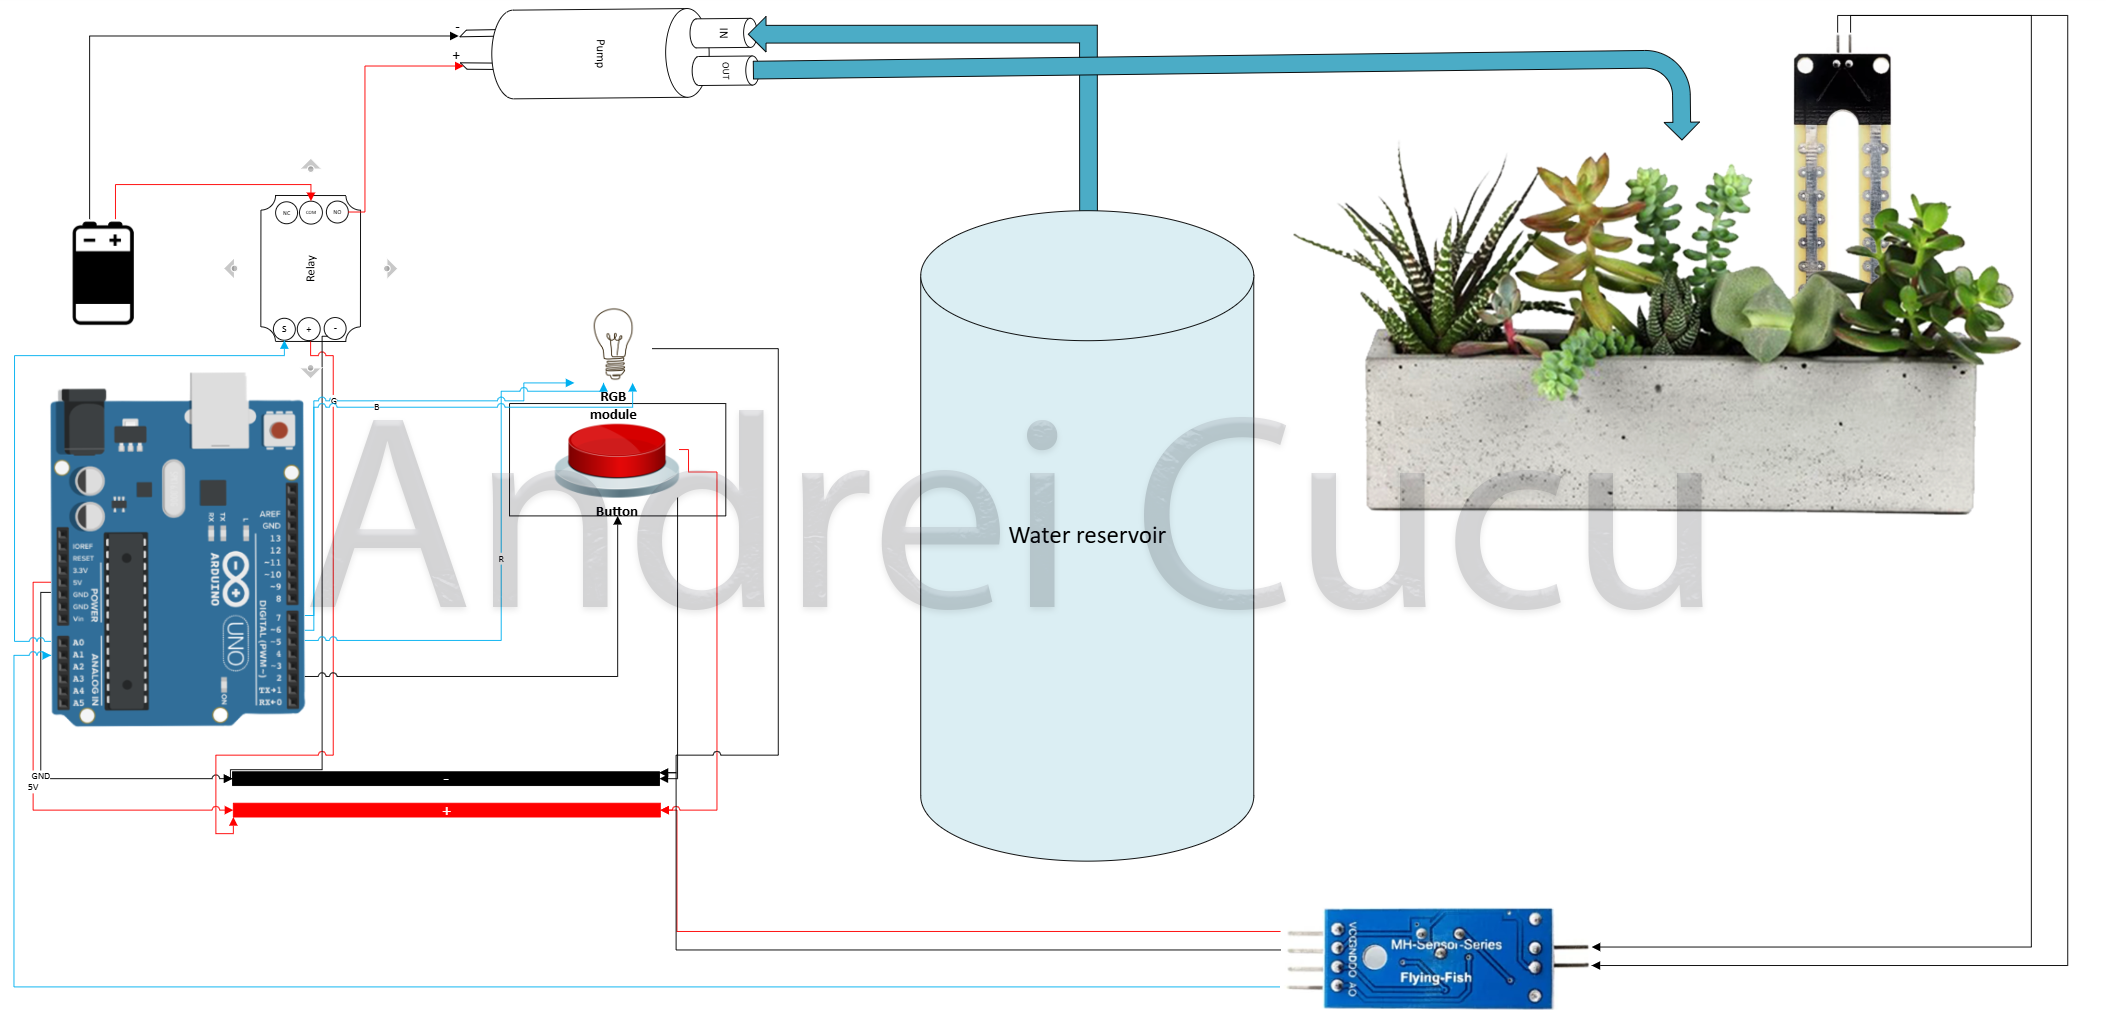
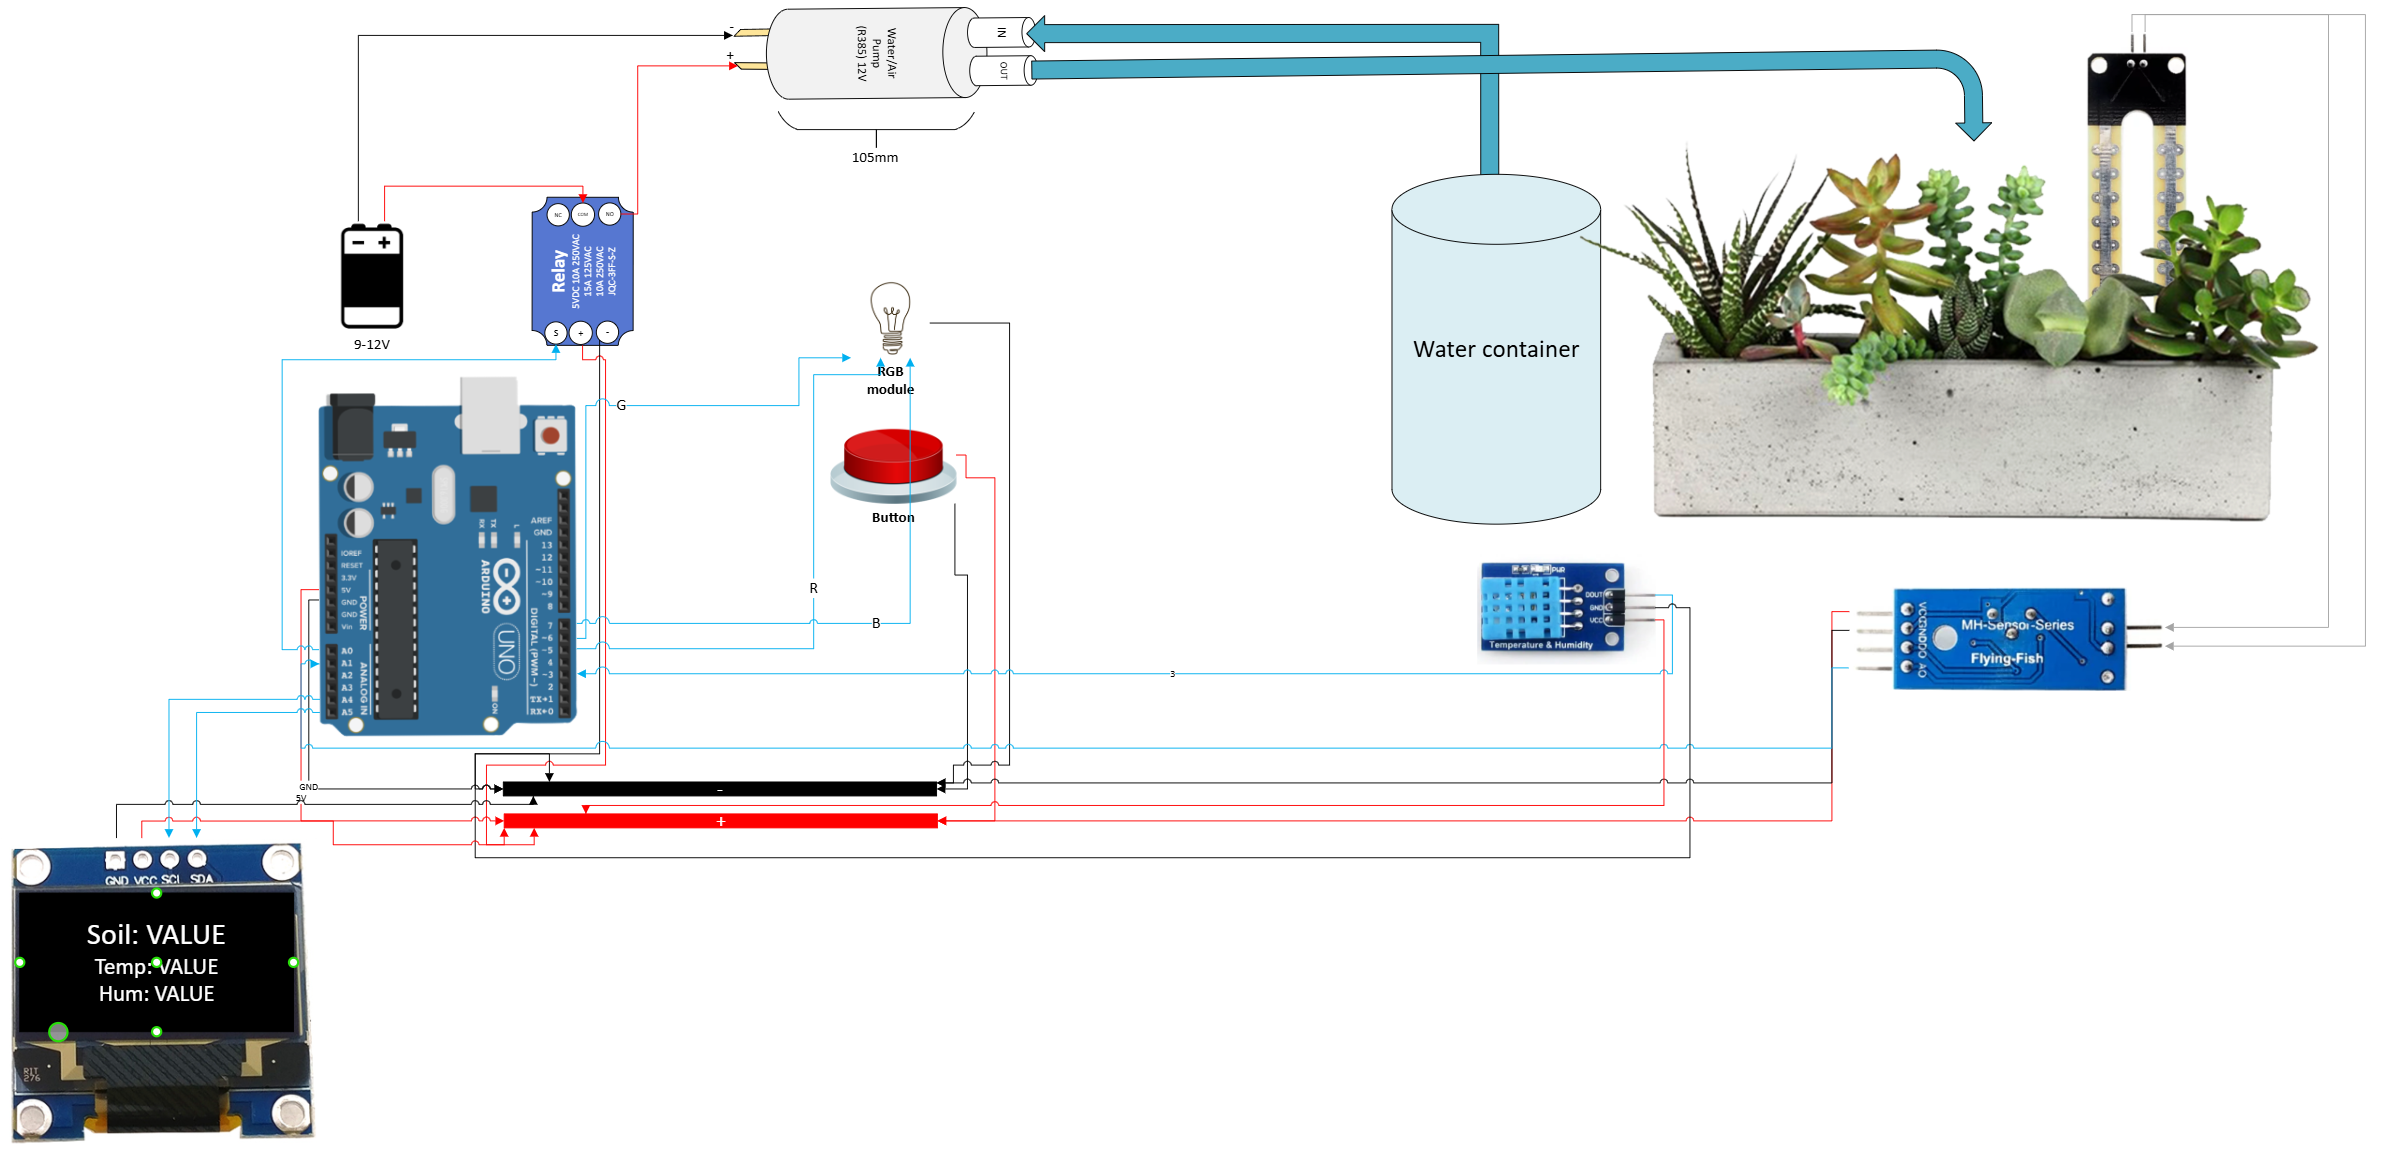
Flask page to view data

diff --git a/gardening_automation/templates/index.html b/gardening_automation/templates/index.html
@@ -1,0 +1,94 @@
+<!DOCTYPE html>
+<html lang="en">
+<head>
+    <meta charset="UTF-8">
+    <meta name="viewport" content="width=device-width, initial-scale=1.0">
+    <title>Garden Station Dashboard</title>
+    <link rel="stylesheet" href="https://cdn.jsdelivr.net/npm/bootstrap@5.3.0/dist/css/bootstrap.min.css">
+    <script src="https://code.jquery.com/jquery-3.6.0.min.js"></script>
+    <style>
+        body {
+            background-color: #f8f9fa;
+        }
+        .sensor-card {
+            text-align: center;
+            padding: 20px;
+            margin: 10px;
+            border-radius: 10px;
+            box-shadow: 0px 0px 10px rgba(0, 0, 0, 0.1);
+        }
+        img {
+            max-width: 100%;
+            height: auto;
+            border: 2px solid #ddd;
+            border-radius: 10px;
+            padding: 10px;
+            background: white;
+            margin-top: 20px;
+        }
+    </style>
+</head>
+<body>
+    <div class="container text-center mt-5">
+        <h1>🌱 Garden Station Dashboard</h1>
+        <div class="row mt-4">
+            <div class="col-md-4">
+                <div class="sensor-card bg-primary text-white">
+                    <h3>Soil Moisture</h3>
+                    <h2 id="moisture">Loading...</h2>
+                    <p id="moisture-status"></p>
+                </div>
+            </div>
+            <div class="col-md-4">
+                <div class="sensor-card bg-danger text-white">
+                    <h3>Temperature</h3>
+                    <h2 id="temperature">Loading...</h2>
+                </div>
+            </div>
+            <div class="col-md-4">
+                <div class="sensor-card bg-success text-white">
+                    <h3>Humidity</h3>
+                    <h2 id="humidity">Loading...</h2>
+                </div>
+            </div>
+        </div>
+
+        <h2 class="mt-4">📊 Soil Moisture Data Over Time</h2>
+        <img id="soil_moisture_graph" src="{{ url_for('static', filename='soil_moisture_graph.png') }}" alt="Soil Moisture Graph" class="img-fluid">
+
+        <h2 class="mt-4">📊 Temperature & Humidity Data Over Time</h2>
+        <img id="temp_humidity_graph" src="{{ url_for('static', filename='temp_humidity_graph.png') }}" alt="Temperature & Humidity Graph" class="img-fluid">
+    </div>
+
+    <script>
+        function fetchData() {
+            $.getJSON("/data", function(data) {
+                $("#moisture").text(data.soil_moisture);
+                $("#temperature").text(data.temperature + " °C");
+                $("#humidity").text(data.humidity + " %");
+
+                let moistureStatus = "";
+                if (data.soil_moisture < 300) {
+                    moistureStatus = "⚠ Too much water!";
+                } else if (data.soil_moisture >= 300 && data.soil_moisture <= 550) {
+                    moistureStatus = "✅ Good";
+                } else {
+                    moistureStatus = "⚠ Dry, needs water!";
+                }
+
+                $("#moisture-status").text(moistureStatus);
+            });
+        }
+
+        function refreshGraphs() {
+            $("#soil_moisture_graph").attr("src", "{{ url_for('static', filename='soil_moisture_graph.png') }}?" + new Date().getTime());
+            $("#temp_humidity_graph").attr("src", "{{ url_for('static', filename='temp_humidity_graph.png') }}?" + new Date().getTime());
+        }
+
+        setInterval(fetchData, 5000);
+        setInterval(refreshGraphs, 15000);
+        fetchData();
+    </script>
+
+</body>
+</html>

diff --git a/gardening_automation/app.py b/gardening_automation/app.py
@@ -1,0 +1,194 @@
+from flask import Flask, jsonify, render_template, url_for
+import pandas as pd
+import serial
+import time
+import threading
+import matplotlib.pyplot as plt
+import os
+from datetime import datetime
+
+app = Flask(__name__, template_folder="templates")
+
+# File paths
+CSV_FILE = "/home/andrei/shared/GardenStation_log.csv"
+STATIC_FOLDER = "static"
+SOIL_GRAPH_PATH = os.path.join(STATIC_FOLDER, "soil_moisture_graph.png")
+TEMP_HUMIDITY_GRAPH_PATH = os.path.join(STATIC_FOLDER, "temp_humidity_graph.png")
+
+def generate_graphs():
+    try:
+        # Read the CSV file
+        df = pd.read_csv(CSV_FILE)
+        print(f"🔍 Original CSV Columns: {df.columns}")
+
+        # Normalize column names
+        df.columns = df.columns.str.strip().str.lower().str.replace(" ", "_")
+        print(f"🔄 Normalized Columns: {df.columns}")
+
+        # Rename columns to a consistent format
+        df.rename(columns={
+            "soil_moisture": "Soil Moisture",
+            "temp": "Temperature",
+            "humid": "Humidity",
+            "date": "Date",
+            "time": "Time"
+        }, inplace=True)
+
+        print(f"✅ Final Columns: {df.columns}")
+
+        # Ensure required columns exist
+        required_columns = {"Soil Moisture", "Temperature", "Humidity", "Date", "Time"}
+        missing_columns = required_columns - set(df.columns)
+        if missing_columns:
+            raise ValueError(f"⚠ Missing required columns: {missing_columns}")
+
+        # Convert sensor data to numeric values
+        df["Soil Moisture"] = pd.to_numeric(df["Soil Moisture"], errors="coerce")
+        df["Temperature"] = pd.to_numeric(df["Temperature"], errors="coerce")
+        df["Humidity"] = pd.to_numeric(df["Humidity"], errors="coerce")
+        df.dropna(subset=["Soil Moisture", "Temperature", "Humidity"], inplace=True)
+
+        # Convert Date & Time into full timestamp
+        df["Timestamp"] = pd.to_datetime(df["Date"] + " " + df["Time"], errors="coerce")
+        df.dropna(subset=["Timestamp"], inplace=True)
+
+        # Group data by day (daily averages)
+        df["Date"] = df["Timestamp"].dt.date
+        daily_avg = df.groupby("Date")[["Soil Moisture", "Temperature", "Humidity"]].mean()
+
+        # Debugging step: Print processed data
+        print(f"✅ Daily averages:\n{daily_avg}")
+
+        if daily_avg.empty:
+            print("⚠ No data to plot.")
+            return  # Stop if no data
+
+        # Create "static" folder if it doesn't exist
+        os.makedirs(STATIC_FOLDER, exist_ok=True)
+
+        # **Graph 1: Soil Moisture**
+        plt.figure(figsize=(10, 5))
+        plt.plot(daily_avg.index, daily_avg["Soil Moisture"], label="Soil Moisture", marker="o", linestyle="-", color="blue")
+        plt.xlabel("Date")
+        plt.ylabel("Soil Moisture")
+        plt.title("Daily Average Soil Moisture")
+        plt.legend()
+        plt.xticks(rotation=45)
+        plt.tight_layout()
+        plt.savefig(SOIL_GRAPH_PATH)
+        plt.close()
+
+        # **Graph 2: Temperature & Humidity**
+        plt.figure(figsize=(10, 5))
+        plt.plot(daily_avg.index, daily_avg["Temperature"], label="Temperature (°C)", marker="s", linestyle="--", color="red")
+        plt.plot(daily_avg.index, daily_avg["Humidity"], label="Humidity (%)", marker="^", linestyle="-.", color="green")
+        plt.xlabel("Date")
+        plt.ylabel("Values")
+        plt.title("Daily Average Temperature & Humidity")
+        plt.legend()
+        plt.xticks(rotation=45)
+        plt.tight_layout()
+        plt.savefig(TEMP_HUMIDITY_GRAPH_PATH)
+        plt.close()
+
+        print("✅ Graphs successfully generated!")
+
+    except Exception as e:
+        print(f"⚠ Error generating graphs: {e}")
+
+
+# Ensure the CSV file exists
+try:
+    df = pd.read_csv(CSV_FILE)
+    print("📂 Loaded existing data.")
+except FileNotFoundError:
+    df = pd.DataFrame(columns=["Timestamp", "Soil Moisture", "Temperature", "Humidity"])
+    df.to_csv(CSV_FILE, index=False)
+    print("🆕 No existing data found. Created a new CSV file.")
+
+
+try:
+    arduino = serial.Serial(port="/dev/ttyACM0", baudrate=9600, timeout=1)
+    time.sleep(2)  # Allow time for Arduino to initialize
+except Exception as e:
+    print("⚠ Error connecting to Arduino:", e)
+    arduino = None
+
+latest_data = {"soil_moisture": 0, "temperature": 0, "humidity": 0}
+
+
+@app.route('/')
+def index():
+    """ Renders the main page with both graphs. """
+    generate_graphs()
+    return render_template(
+        "index.html",
+        soil_graph_url=url_for('static', filename='soil_moisture_graph.png'),
+        temp_humidity_graph_url=url_for('static', filename='temp_humidity_graph.png')
+    )
+
+
+@app.route('/data', methods=['GET'])
+def get_data():
+    return jsonify(latest_data)
+
+
+# Function to read data from Arduino in a background thread
+serial_lock = threading.Lock()
+
+
+# Global variable to store the last time data was logged
+last_logged_time = None
+
+def read_arduino():
+    global latest_data, arduino, last_logged_time
+    while True:
+        try:
+            with serial_lock:  # Prevent multiple accesses
+                if arduino is None or not arduino.is_open:
+                    print("⚠ Reconnecting to Arduino...")
+                    arduino = serial.Serial(port="/dev/ttyACM0", baudrate=9600, timeout=1)
+                    time.sleep(2)  # Give time to reconnect
+
+                if arduino.in_waiting > 0:
+                    line = arduino.readline().decode("utf-8").strip()
+                    print("📥 Received:", line)
+
+                    if line.startswith("Soil Moisture:"):
+                        latest_data["soil_moisture"] = int(line.split(":")[1])
+                    elif line.startswith("Temp:"):
+                        latest_data["temperature"] = float(line.split(":")[1])
+                    elif line.startswith("Hum:"):
+                        latest_data["humidity"] = float(line.split(":")[1])
+
+                    # Get the current time
+                    now = datetime.now()
+
+                    # Only log if at least 1 hour has passed since last logged time
+                    if last_logged_time is None or (now - last_logged_time).total_seconds() >= 3600:
+                        last_logged_time = now  # Update last logged time
+
+                        # Save data to CSV
+                        with open(CSV_FILE, "a") as f:
+                            timestamp_time = now.strftime("%H:%M:%S")
+                            timestamp_date = now.strftime("%-m/%-d/%Y")
+                            f.write(f"{latest_data['soil_moisture']},{latest_data['temperature']},{latest_data['humidity']},{timestamp_time},{timestamp_date}")
+
+                        print("✅ Data logged to CSV")
+
+                        # Generate new graphs
+                        generate_graphs()
+
+        except serial.SerialException as e:
+            print("⚠ Serial error:", e)
+            arduino = None  # Reset Arduino object to attempt reconnection
+            time.sleep(5)  # Wait before retrying
+
+
+
+# Start Arduino thread
+if arduino:
+    threading.Thread(target=read_arduino, daemon=True).start()
+
+if __name__ == '__main__':
+    app.run(host='0.0.0.0', port=8000, debug=True)
